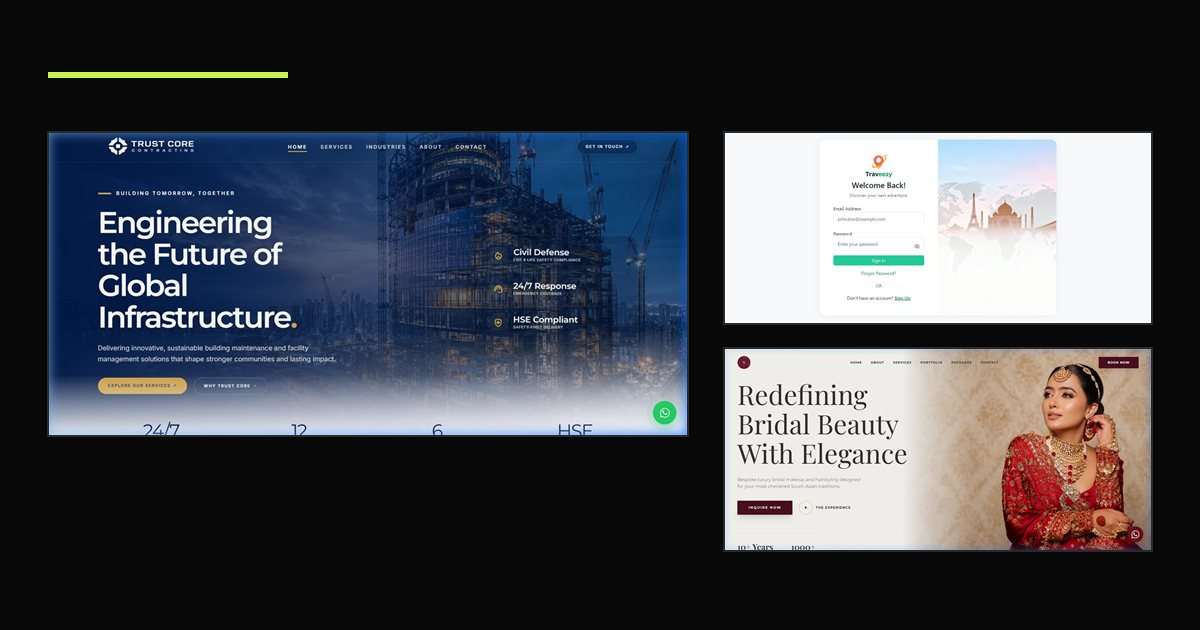
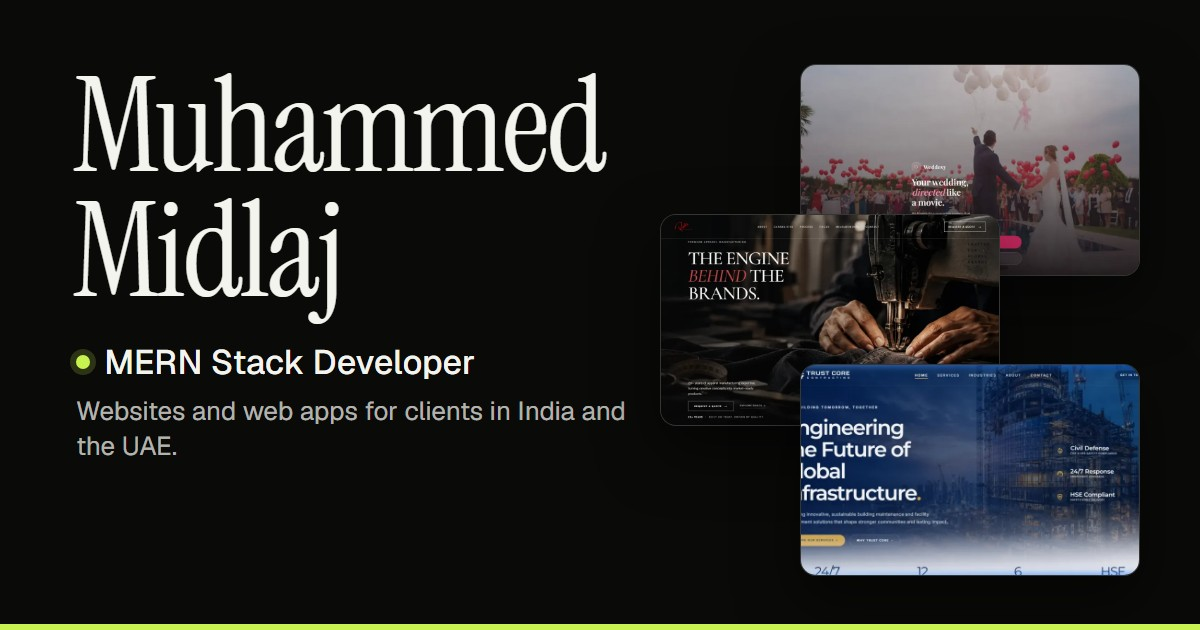
Content hygiene: dead link, portrait mark, alt text, share image, footer
- Traveezy: its domain has expired, so no live link is shown; a quiet "Live
  site unavailable" note replaces the button (TODO-MIDLAJ in the data).
- About portrait: the bottom 9% is cropped off to remove an AI-tool mark
  until a genuine photo is supplied (TODO-MIDLAJ in the CSS).
- Feature images now carry descriptive alt text for crawlers and image
  search (the duplicate link stays hidden from assistive tech).
- New 1200x630 social-share image with name, role and pitch, rendered with
  the site fonts; it no longer shows the Traveezy placeholder login.
- Footer: copyright and "Back to top" share one 44px row.

diff --git a/src/components/Sections/Projects.jsx b/src/components/Sections/Projects.jsx
@@ -31,40 +31,61 @@ const Projects = () => {
 
       <div className="features">
         {featured.map((project) => (
-          <article key={project.id} id={`project-${project.id}`} className="feature" data-cursor="View">
+          <article
+            key={project.id}
+            id={`project-${project.id}`}
+            className="feature"
+            data-cursor={project.link ? 'View' : undefined}
+          >
             {/* the image repeats the title link, so it is skipped by keyboard
-                and assistive tech */}
-            <a
-              className="feature-media"
-              href={project.link}
-              target="_blank"
-              rel="noopener noreferrer"
-              tabIndex={-1}
-              aria-hidden="true"
-            >
-              <ProjectImage
-                image={project.image}
-                alt=""
-                className="feature-image"
-                sizes="(max-width: 900px) 92vw, 760px"
-              />
-            </a>
+                and assistive tech; its alt text still gives crawlers and image
+                search a description. Without a live link it is just a picture. */}
+            {project.link ? (
+              <a
+                className="feature-media"
+                href={project.link}
+                target="_blank"
+                rel="noopener noreferrer"
+                tabIndex={-1}
+                aria-hidden="true"
+              >
+                <ProjectImage
+                  image={project.image}
+                  alt={`${project.title} website screenshot`}
+                  className="feature-image"
+                  sizes="(max-width: 900px) 92vw, 760px"
+                />
+              </a>
+            ) : (
+              <div className="feature-media">
+                <ProjectImage
+                  image={project.image}
+                  alt={`${project.title} screenshot`}
+                  className="feature-image"
+                  sizes="(max-width: 900px) 92vw, 760px"
+                />
+              </div>
+            )}
 
             <div className="feature-body">
               {isClient(project) && <p className="feature-kind">Client work</p>}
               <h3 className="feature-title">{project.title}</h3>
               <p className="feature-desc">{project.desc}</p>
               <p className="feature-tech">{techOf(project).join(', ')}</p>
-              <a
-                className="feature-link"
-                href={project.link}
-                target="_blank"
-                rel="noopener noreferrer"
-              >
-                View live site
-                <ArrowOut />
-                <NewTab title={project.title} />
-              </a>
+              {project.link ? (
+                <a
+                  className="feature-link"
+                  href={project.link}
+                  target="_blank"
+                  rel="noopener noreferrer"
+                >
+                  View live site
+                  <ArrowOut />
+                  <NewTab title={project.title} />
+                </a>
+              ) : (
+                <p className="feature-offline">Live site unavailable</p>
+              )}
             </div>
           </article>
         ))}

diff --git a/src/data/projectsData.js b/src/data/projectsData.js
@@ -44,7 +44,8 @@ export const projects = [
     desc: "A full-stack travel platform featuring AI-powered itineraries, seamless Google OAuth authentication, secure Razorpay integration, and real-time interactions.",
     tags: ["Node.js", "Express", "MongoDB", "EJS", "Razorpay", "REST APIs"],
     image: { name: 'traveezy', widths: [640, 1024], width: 1024, height: 459 },
-    link: "https://www.traveezy.online/",
+    // TODO-MIDLAJ: traveezy.online has an expired domain (checked 2026-11-20), so no live
+    // link is shown. Renew it or add the live URL here as `link:` and the button returns.
   },
   {
     id: 'trustcore',

diff --git a/src/components/Sections/About.css b/src/components/Sections/About.css
@@ -23,7 +23,12 @@
 .about-photo img {
   display: block;
   width: 100%;
+  /* TODO-MIDLAJ: replace profile-800 with a genuine, unwatermarked portrait.
+     Until then the bottom 9% is cropped off (800x971 of 800x1067). */
+  aspect-ratio: 800 / 971;
   height: auto;
+  object-fit: cover;
+  object-position: top;
 }
 
 .about-copy {

diff --git a/src/components/Sections/Projects.css b/src/components/Sections/Projects.css
@@ -314,3 +314,12 @@
 .paper .row:active {
   background: rgba(18, 18, 16, 0.09);
 }
+
+/* a featured project with no live link: plain note instead of the link */
+.feature-offline {
+  display: inline-flex;
+  align-items: center;
+  min-height: 44px;
+  color: var(--muted);
+  font-size: var(--step--1);
+}

diff --git a/src/components/Layout/Footer.css b/src/components/Layout/Footer.css
@@ -34,3 +34,10 @@ footer {
   align-items: center;
   min-height: 44px;
 }
+
+/* the copyright line and the link sit on one shared 44px row */
+.footer-inner p {
+  display: flex;
+  align-items: center;
+  min-height: 44px;
+}
